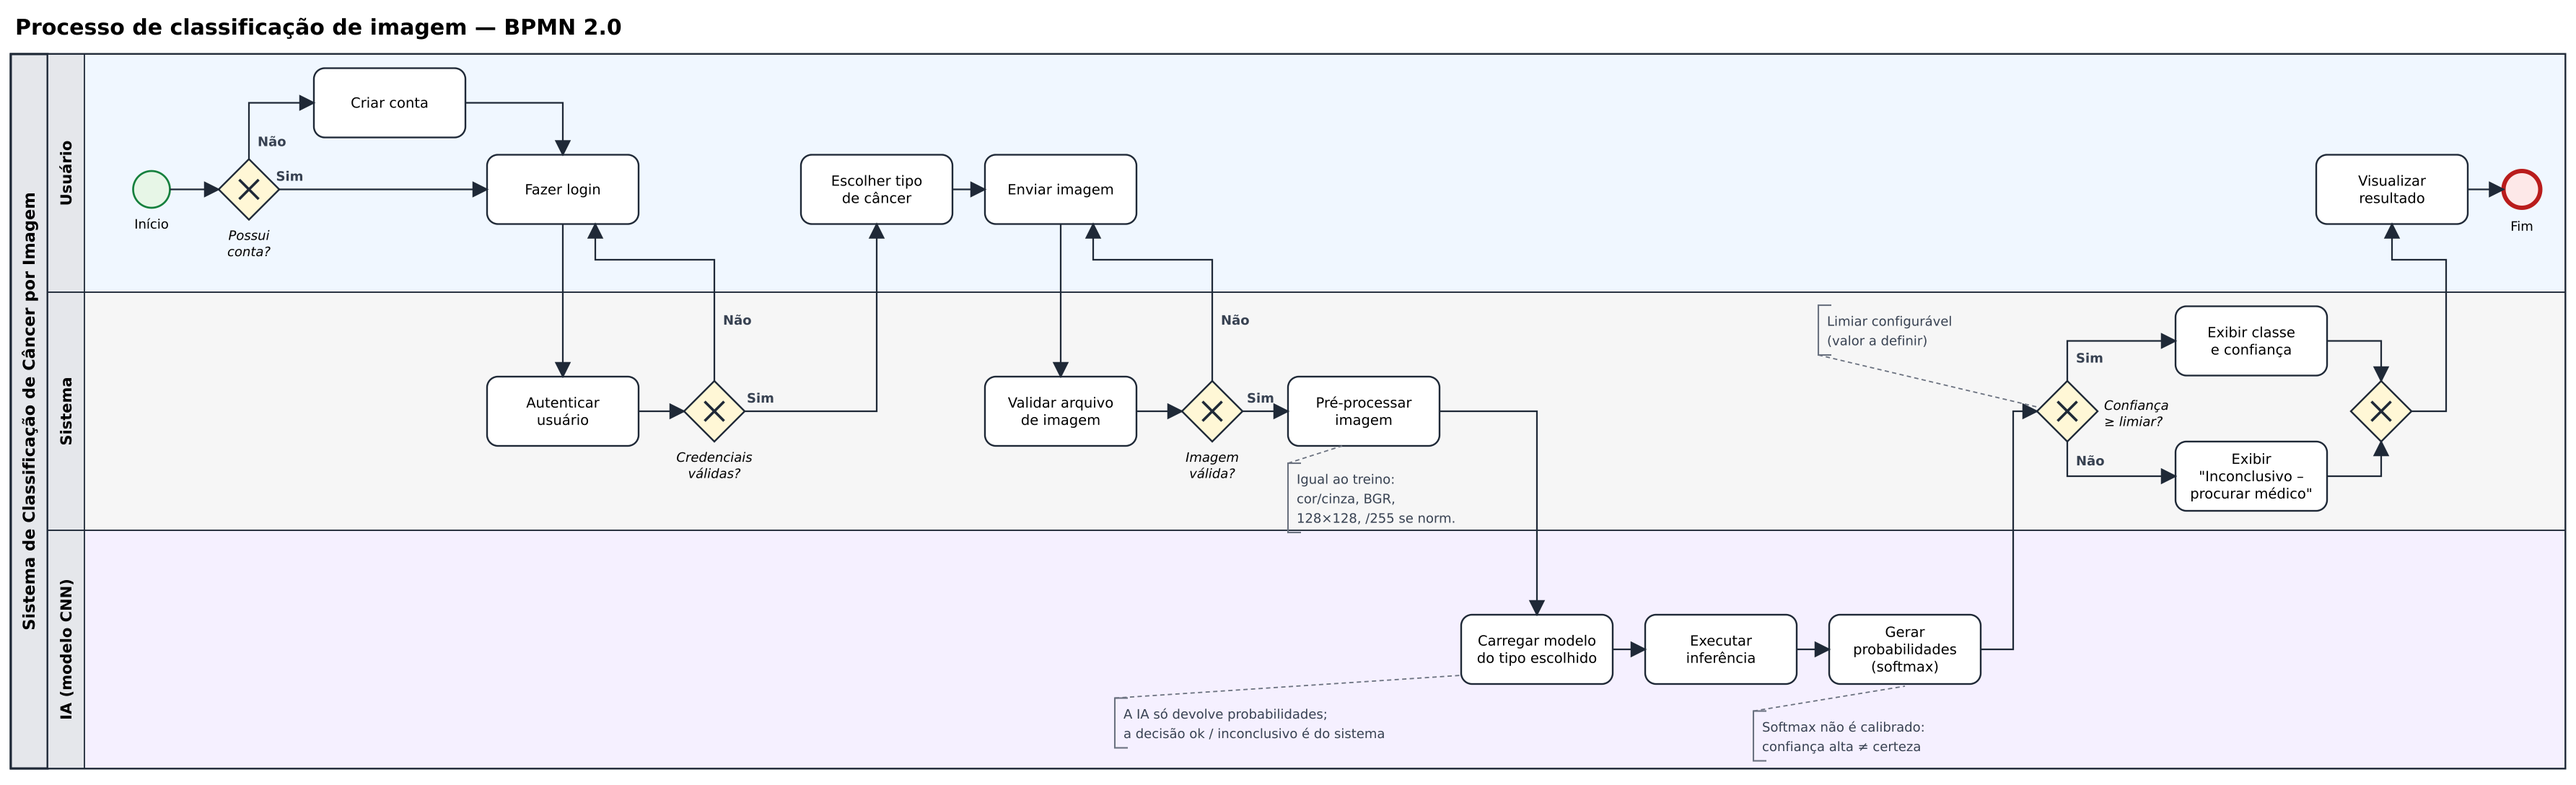
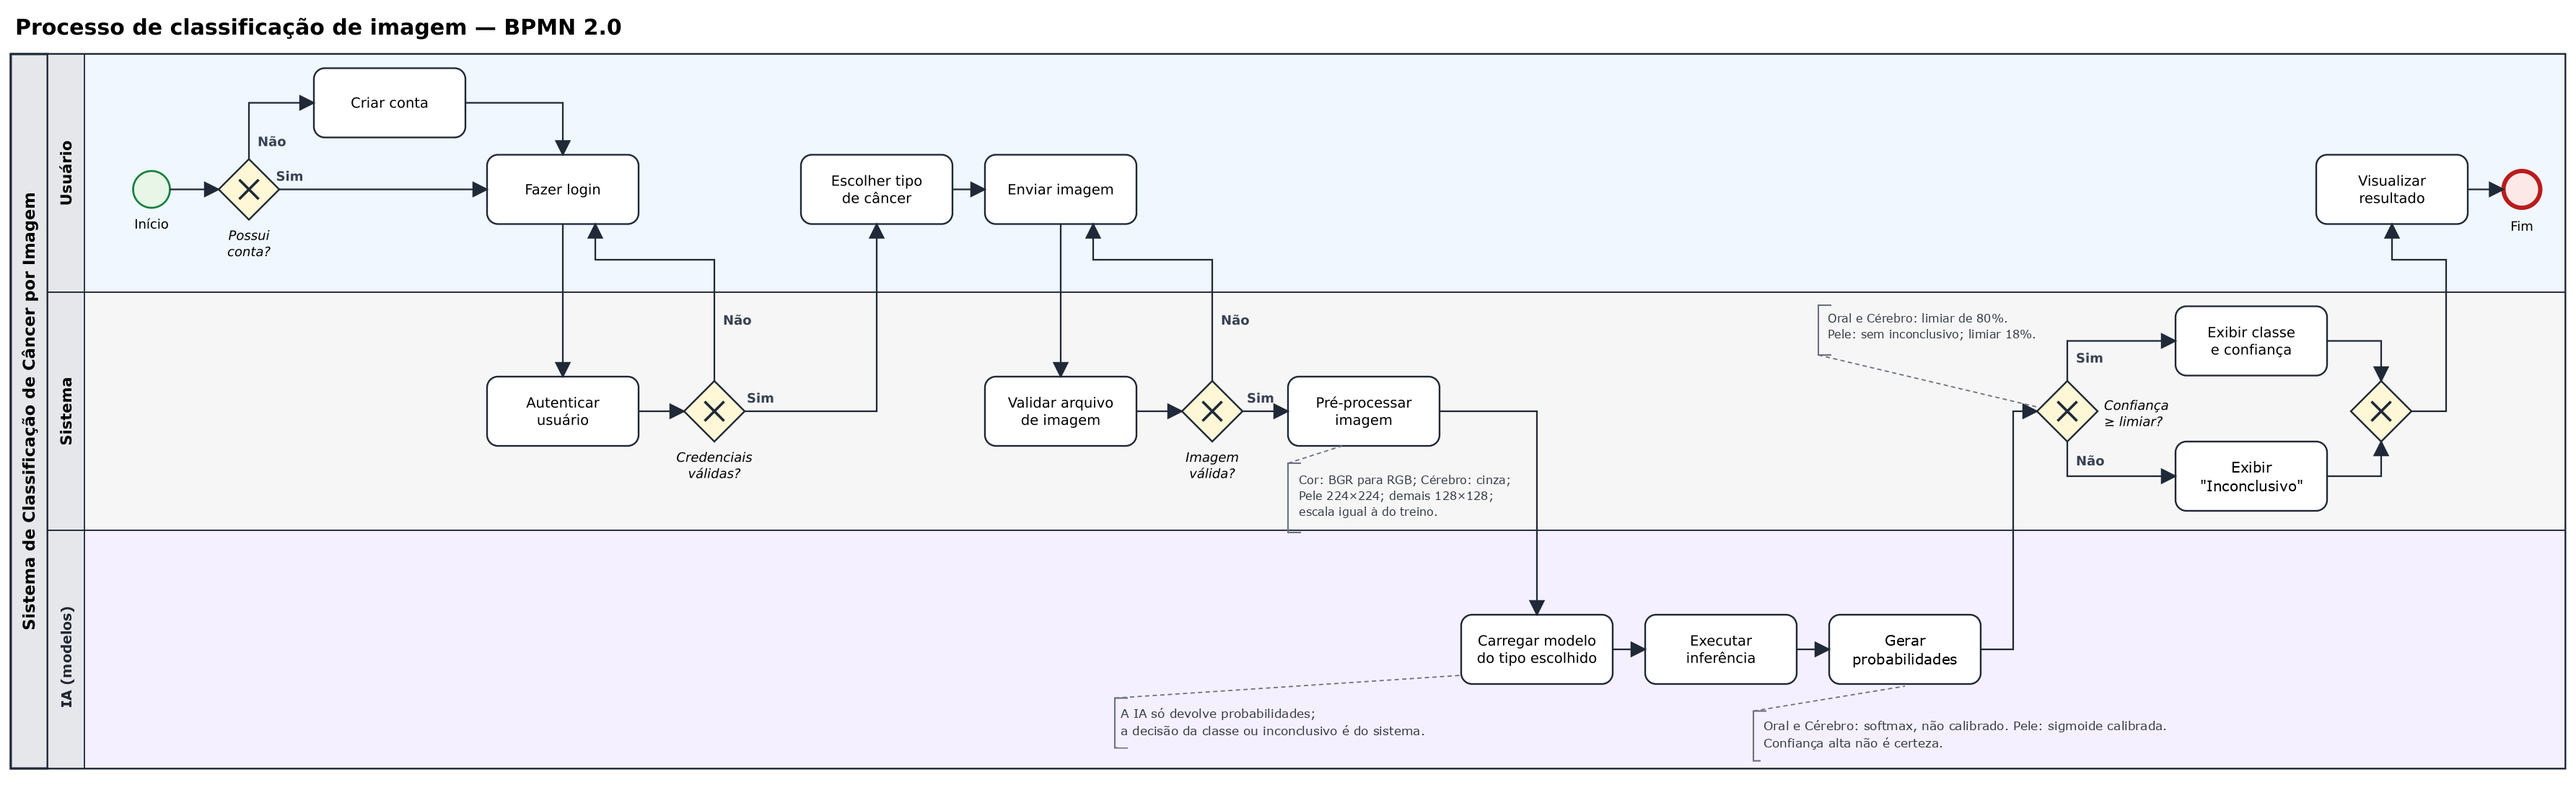
Adiciona o resultado inconclusivo e atualiza o workflow BPMN

diff --git a/frontend/src/pages/Resultado.tsx b/frontend/src/pages/Resultado.tsx
@@ -43,6 +43,11 @@ export default function Resultado() {
   const limiar = atual?.limiar ?? modeloUsado?.limiar ?? null;
   const classePositiva = modeloUsado?.classes[1] ?? "maligno";
   const probPositiva = dados.classe_prevista === classePositiva ? dados.confianca : 1 - dados.confianca;
+  const inconclusivo = dados.classe_prevista === "inconclusivo";
+  const limiarInconclusivo = atual?.limiar_inconclusivo ?? modeloUsado?.limiar_inconclusivo ?? null;
+  const fraseInconclusivo = `Resultado inconclusivo: o modelo não atingiu a confiança mínima${
+    limiarInconclusivo !== null ? ` de ${Math.round(limiarInconclusivo * 100)}%` : ""
+  } para indicar uma classe nesta imagem.`;
 
   return (
     <>
@@ -68,12 +73,14 @@ export default function Resultado() {
 
       <div className="result-grid">
         <article className="result-metric">
-          <small>Classe prevista</small>
-          <strong>{dados.classe_prevista}</strong>
+          <small>{inconclusivo ? "Resultado" : "Classe prevista"}</small>
+          <strong>{inconclusivo ? "Inconclusivo" : dados.classe_prevista}</strong>
           <p>
-            {limiar !== null
-              ? `Vira "${classePositiva}" quando a probabilidade alcança o limiar de ${formatarPct(limiar * 100)}, mesmo abaixo de 50%.`
-              : "A classe mais provável entre as classes usadas no treino."}
+            {inconclusivo
+              ? "O sistema não indica uma classe quando a confiança fica abaixo do limiar."
+              : limiar !== null
+                ? `Vira "${classePositiva}" quando a probabilidade alcança o limiar de ${formatarPct(limiar * 100)}, mesmo abaixo de 50%.`
+                : "A classe mais provável entre as classes usadas no treino."}
           </p>
         </article>
         {limiar !== null ? (
@@ -97,6 +104,14 @@ export default function Resultado() {
           </p>
         </article>
       </div>
+
+      {inconclusivo && (
+        <div style={{ marginBottom: 15 }}>
+          <Alerta icone="warning">
+            <strong>{fraseInconclusivo}</strong>
+          </Alerta>
+        </div>
+      )}
 
       {vazamento && (
         <div style={{ marginBottom: 15 }}>

diff --git a/frontend/src/pages/Limitacoes.tsx b/frontend/src/pages/Limitacoes.tsx
@@ -18,6 +18,7 @@ export default function Limitacoes() {
           <ul className="notas bullets">
             <li>Os modelos foram treinados com datasets públicos do Kaggle e nunca foram validados clinicamente.</li>
             <li>Em Oral e Cérebro, a saída é a classe mais provável entre as classes do treino. Uma imagem de outro tipo de exame recebe uma classe do mesmo jeito.</li>
+            <li>Em Oral e Cérebro, o resultado é "inconclusivo" quando a confiança fica abaixo de 80%. Isso reduz erros de baixa confiança, mas não impede erros com confiança alta, comuns em imagens de outra origem.</li>
             <li>Em Oral e Cérebro, a "confiança" exibida é a saída softmax da rede, não uma probabilidade calibrada de doença.</li>
             <li>Em Pele, a classe é "maligno" quando a probabilidade calibrada alcança o limiar de 18%. Na lista de análises, a confiança mostra a probabilidade da classe prevista, que pode ser baixa em um resultado "maligno".</li>
           </ul>
@@ -78,7 +79,7 @@ export default function Limitacoes() {
           </div>
           <p className="texto">
             O protótipo não verifica se a imagem é compatível com o módulo escolhido. Ele foi pensado para uso por médicos, que escolhem o
-            módulo e o exame corretos. Por isso, uma imagem sem relação, como um fundo ou um exame de outro tipo, também recebe uma das
+            módulo e o exame corretos. Por isso, uma imagem sem relação, como um fundo ou um exame de outro tipo, também pode receber uma das
             classes do treino, e a confiança exibida não indica que o resultado seja válido.
           </p>
           <p className="texto" style={{ margin: 0 }}>

diff --git a/frontend/src/pages/Modelos.tsx b/frontend/src/pages/Modelos.tsx
@@ -84,6 +84,12 @@ export default function Modelos() {
                       {modelo.tamanho}×{modelo.tamanho}, {nomeModo(modelo.modo)}, {modelo.normalizado ? "normalizado" : "sem normalizar"}
                     </strong>
                   </div>
+                  {modelo.limiar_inconclusivo !== null && (
+                    <div className="model-spec">
+                      <span>Inconclusivo abaixo de</span>
+                      <strong>{Math.round(modelo.limiar_inconclusivo * 100)}% de confiança</strong>
+                    </div>
+                  )}
                   {modelo.limiar !== null && (
                     <div className="model-spec">
                       <span>Limiar de decisão</span>

diff --git a/frontend/src/api.ts b/frontend/src/api.ts
@@ -40,6 +40,7 @@ export type Modelo = {
   descricao: string;
   metricas: Partial<Record<"acc_media" | "acc_desvio" | "f1_media" | "f1_desvio", number>>;
   limiar: number | null;
+  limiar_inconclusivo: number | null;
 };
 
 export type ResultadoPrevisao = {
@@ -50,6 +51,7 @@ export type ResultadoPrevisao = {
   confianca: number;
   probabilidades: { classe: string; probabilidade: number }[];
   limiar: number | null;
+  limiar_inconclusivo: number | null;
   tempo_ms: number;
   aviso: string;
 };

diff --git a/backend/tests/test_api.py b/backend/tests/test_api.py
@@ -83,6 +83,45 @@ def _png(altura, largura):
     return png.tobytes()
 
 
+class SessaoFalsa:
+    def __init__(self, saida):
+        self.saida = saida
+
+    def get_inputs(self):
+        return [type("Entrada", (), {"name": "imagem"})]
+
+    def run(self, _, __):
+        return [np.array(self.saida, dtype=np.float32)]
+
+
+@pytest.mark.parametrize(
+    "saida,limiar,classe,limiar_inconclusivo",
+    [
+        ([[3.0, 0.0]], None, "a", 0.8),  # softmax ~95%
+        ([[0.2, 0.0]], None, "inconclusivo", 0.8),  # softmax ~55%
+        ([0.2], 0.18, "b", None),  # limiar próprio: 20% já é a segunda classe, sem inconclusivo
+        ([0.1], 0.18, "a", None),
+    ],
+)
+def test_previsao_classe_e_inconclusivo(cliente, saida, limiar, classe, limiar_inconclusivo):
+    from app.inferencia import ModeloCarregado
+
+    registro = cliente.app.state.registro
+    registro.modelos["falso"] = ModeloCarregado(
+        id="falso", cancer="Teste", modo="cor", tamanho=128, escala=255, classes=["a", "b"], sessao=SessaoFalsa(saida), limiar=limiar
+    )
+    try:
+        resposta = cliente.post("/api/previsoes", data={"modelo_id": "falso"}, files={"arquivo": ("x.png", _png(150, 150), "image/png")})
+    finally:
+        del registro.modelos["falso"]
+
+    assert resposta.status_code == 200
+    corpo = resposta.json()
+    assert corpo["classe_prevista"] == classe
+    assert corpo["limiar_inconclusivo"] == limiar_inconclusivo
+    assert {item["classe"] for item in corpo["probabilidades"]} == {"a", "b"}
+
+
 def test_preprocessar_pil_formato_e_normalizacao():
     from app.inferencia import preprocessar_pil
 

diff --git a/backend/app/routers/previsoes.py b/backend/app/routers/previsoes.py
@@ -7,7 +7,13 @@ from sqlalchemy.orm import Session
 from app.config import settings
 from app.db import get_db
 from app.esquemas import PrevisaoHistorico, PrevisaoOut, Probabilidade
-from app.inferencia import ImagemInvalida, indice_previsto, prever
+from app.inferencia import (
+    CLASSE_INCONCLUSIVA,
+    ImagemInvalida,
+    indice_previsto,
+    limiar_inconclusivo_do_modelo,
+    prever,
+)
 from app.tabelas import Previsao
 
 router = APIRouter(prefix="/api/previsoes", tags=["previsões"])
@@ -41,8 +47,10 @@ async def criar_previsao(
     tempo_ms = (time.perf_counter() - inicio) * 1000
 
     indice = indice_previsto(modelo, probabilidades)
-    classe = modelo.classes[indice]
     confianca = float(probabilidades[indice])
+    limiar_inconclusivo = limiar_inconclusivo_do_modelo(modelo)
+    inconclusivo = limiar_inconclusivo is not None and confianca < limiar_inconclusivo
+    classe = CLASSE_INCONCLUSIVA if inconclusivo else modelo.classes[indice]
 
     # Só o resultado vai para o banco; a imagem é descartada aqui
     registro = Previsao(modelo_id=modelo.id, classe_prevista=classe, confianca=confianca, tempo_ms=tempo_ms)
@@ -61,6 +69,7 @@ async def criar_previsao(
             reverse=True,
         ),
         limiar=modelo.limiar,
+        limiar_inconclusivo=limiar_inconclusivo,
         tempo_ms=tempo_ms,
         aviso=AVISO,
     )

diff --git a/backend/app/inferencia.py b/backend/app/inferencia.py
@@ -11,10 +11,13 @@ import numpy as np
 import onnxruntime as ort
 from PIL import Image, ImageOps
 
+from app.config import settings
+
 log = logging.getLogger(__name__)
 
 FORMATOS_PIL = {"JPEG", "PNG", "WEBP", "BMP", "TIFF"}
 LADO_MINIMO_PIL = 100
+CLASSE_INCONCLUSIVA = "inconclusivo"
 
 
 class ImagemInvalida(ValueError):
@@ -109,6 +112,11 @@ def indice_previsto(modelo: ModeloCarregado, probabilidades: np.ndarray) -> int:
     if modelo.limiar is not None:
         return 1 if probabilidades[1] >= modelo.limiar else 0
     return int(probabilidades.argmax())
+
+
+def limiar_inconclusivo_do_modelo(modelo: ModeloCarregado) -> float | None:
+    """Modelos com limiar próprio já decidem por ele; os demais ficam inconclusivos abaixo do limiar configurado."""
+    return None if modelo.limiar is not None else settings.limiar_inconclusivo
 
 
 class RegistroModelos:

diff --git a/backend/app/routers/modelos.py b/backend/app/routers/modelos.py
@@ -1,6 +1,7 @@
 from fastapi import APIRouter, Request
 
 from app.esquemas import ModeloOut
+from app.inferencia import limiar_inconclusivo_do_modelo
 
 router = APIRouter(prefix="/api/modelos", tags=["modelos"])
 
@@ -18,6 +19,7 @@ def listar_modelos(request: Request):
             descricao=modelo.descricao,
             metricas=modelo.metricas,
             limiar=modelo.limiar,
+            limiar_inconclusivo=limiar_inconclusivo_do_modelo(modelo),
         )
         for modelo in request.app.state.registro.listar()
     ]

diff --git a/backend/app/esquemas.py b/backend/app/esquemas.py
@@ -41,6 +41,7 @@ class ModeloOut(BaseModel):
     descricao: str
     metricas: dict
     limiar: float | None = None
+    limiar_inconclusivo: float | None = None
 
 
 class Probabilidade(BaseModel):
@@ -56,6 +57,7 @@ class PrevisaoOut(BaseModel):
     confianca: float
     probabilidades: list[Probabilidade]
     limiar: float | None = None
+    limiar_inconclusivo: float | None = None
     tempo_ms: float
     aviso: str
 

diff --git a/backend/app/config.py b/backend/app/config.py
@@ -22,6 +22,9 @@ class Settings(BaseSettings):
 
     max_upload_mb: int = 10
 
+    # Abaixo desta confiança, o resultado é "inconclusivo" (não vale para modelos com limiar próprio, como o da Pele)
+    limiar_inconclusivo: float = 0.8
+
     @property
     def lista_cors(self) -> list[str]:
         return [origem.strip() for origem in self.cors_origins.split(",") if origem.strip()]

diff --git a/README.md b/README.md
@@ -42,6 +42,8 @@ O treino acontece em PyTorch na GPU. Para o app, cada modelo é exportado para *
 | Cérebro | CNN pequena (~24 mil parâmetros) | 128×128, cinza | `glioma`, `menin` ou `tumor`, a classe mais provável | ~110 KB |
 | Pele | Ensemble de 5 EfficientNet-B0 com calibração de Platt | 224×224, cor, normalização ImageNet | `benigno` ou `maligno` (mel + bcc), com limiar de 18% | ~80 MB |
 
+Em Oral e Cérebro, a API responde `inconclusivo` quando a confiança fica abaixo de 80% (variável `LIMIAR_INCONCLUSIVO`). A Pele não usa essa regra, porque já decide pelo limiar próprio.
+
 O modelo da Pele ainda não teve as métricas de teste registradas no app, e a queratose actínica (akiec) ficou fora do treino. No Windows, com os três modelos, o pico de memória medido foi de 250 MB, sem incluir o restante da API. O uso nos 512 MB do plano gratuito do Render ainda não foi testado.
 
 ## Estrutura
